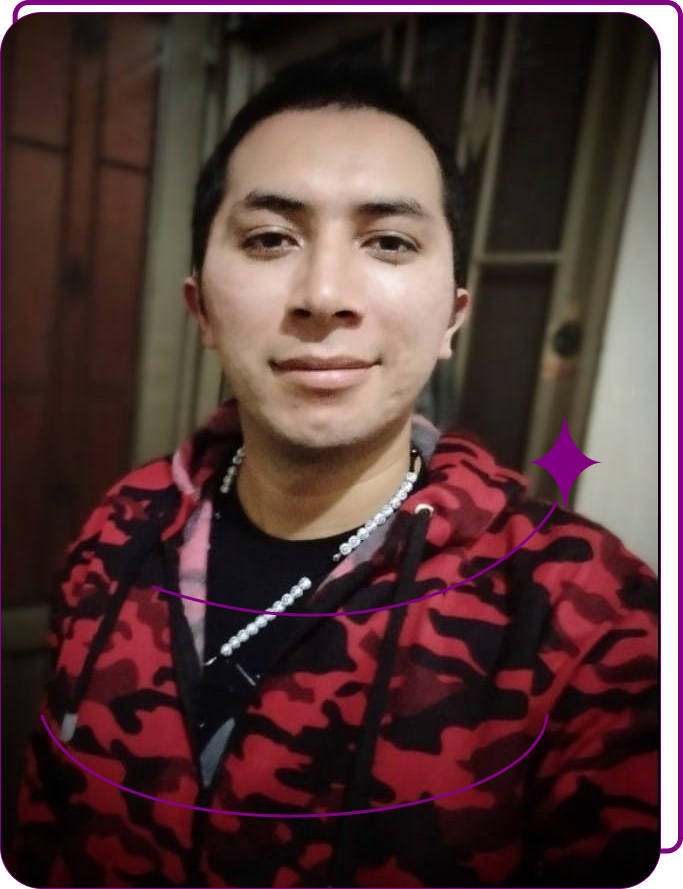
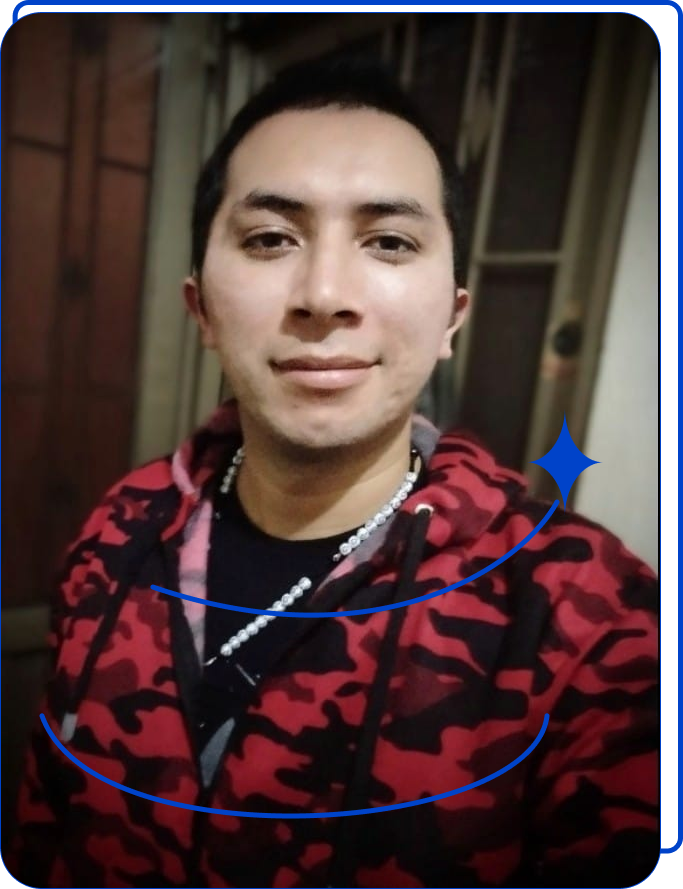
Cambio de color Secundario de Morado a Azul

diff --git a/styles/style.scss b/styles/style.scss
@@ -2,8 +2,8 @@
 @import url('https://fonts.googleapis.com/css2?family=Krona+One&family=Montserrat:ital,wght@0,100..900;1,100..900&display=swap');
 
 :root {
-    --enfasis: purple;
-    --fondo: #000000;
+    --enfasis: #0043C9;
+    --fondo: black;
     --color-letra: #FFFFFF;
     --color-hover: #272727;
     --fuente-principal: "Montserrat", sans-serif;

diff --git a/styles/style.css b/styles/style.css
@@ -1,7 +1,7 @@
 @import url("https://fonts.googleapis.com/css2?family=Krona+One&family=Montserrat:ital,wght@0,100..900;1,100..900&display=swap");
 :root {
-  --enfasis: purple;
-  --fondo: #000000;
+  --enfasis: #0043C9;
+  --fondo: black;
   --color-letra: #FFFFFF;
   --color-hover: #272727;
   --fuente-principal: "Montserrat", sans-serif;
